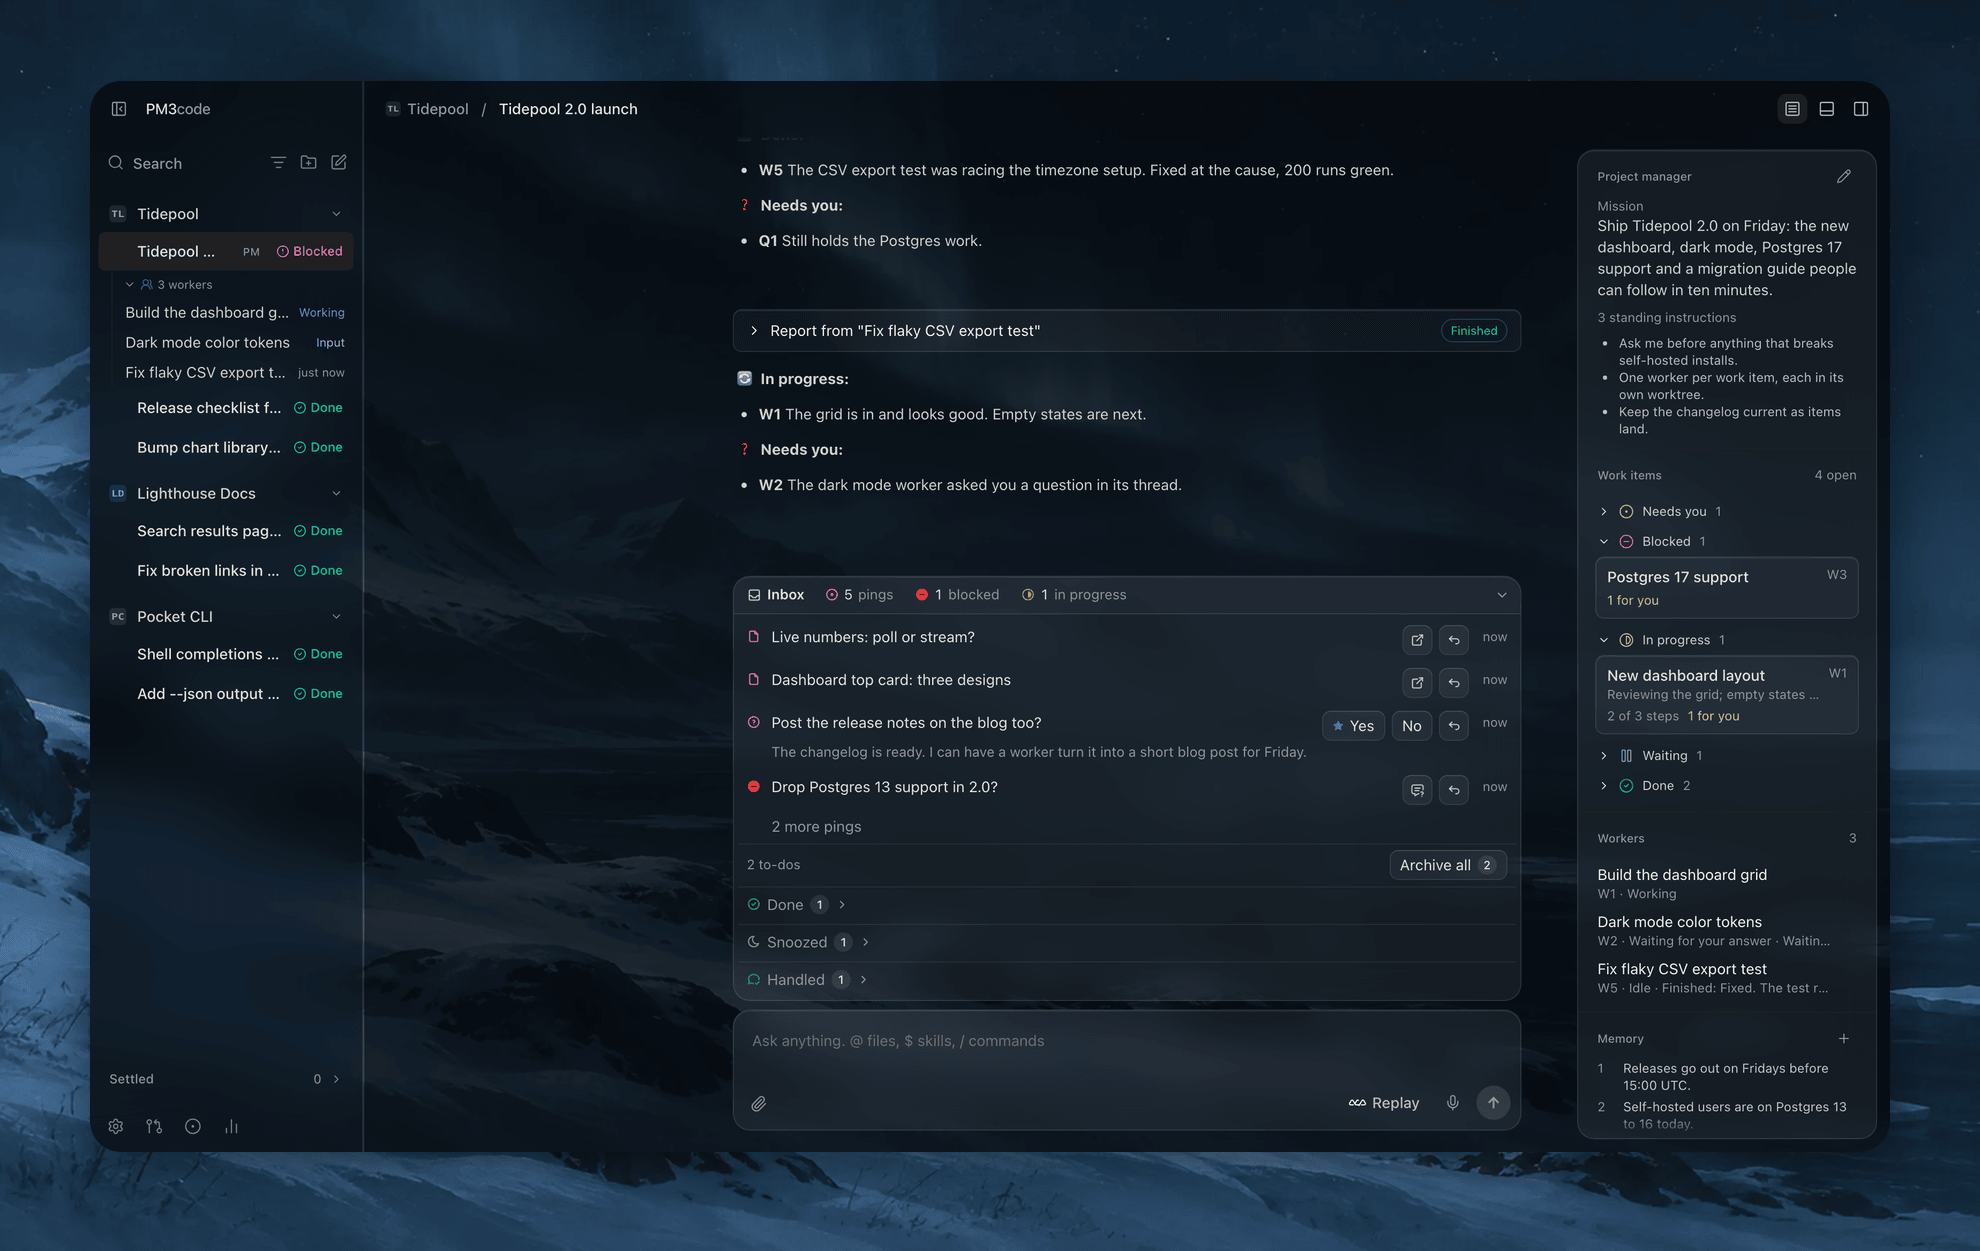
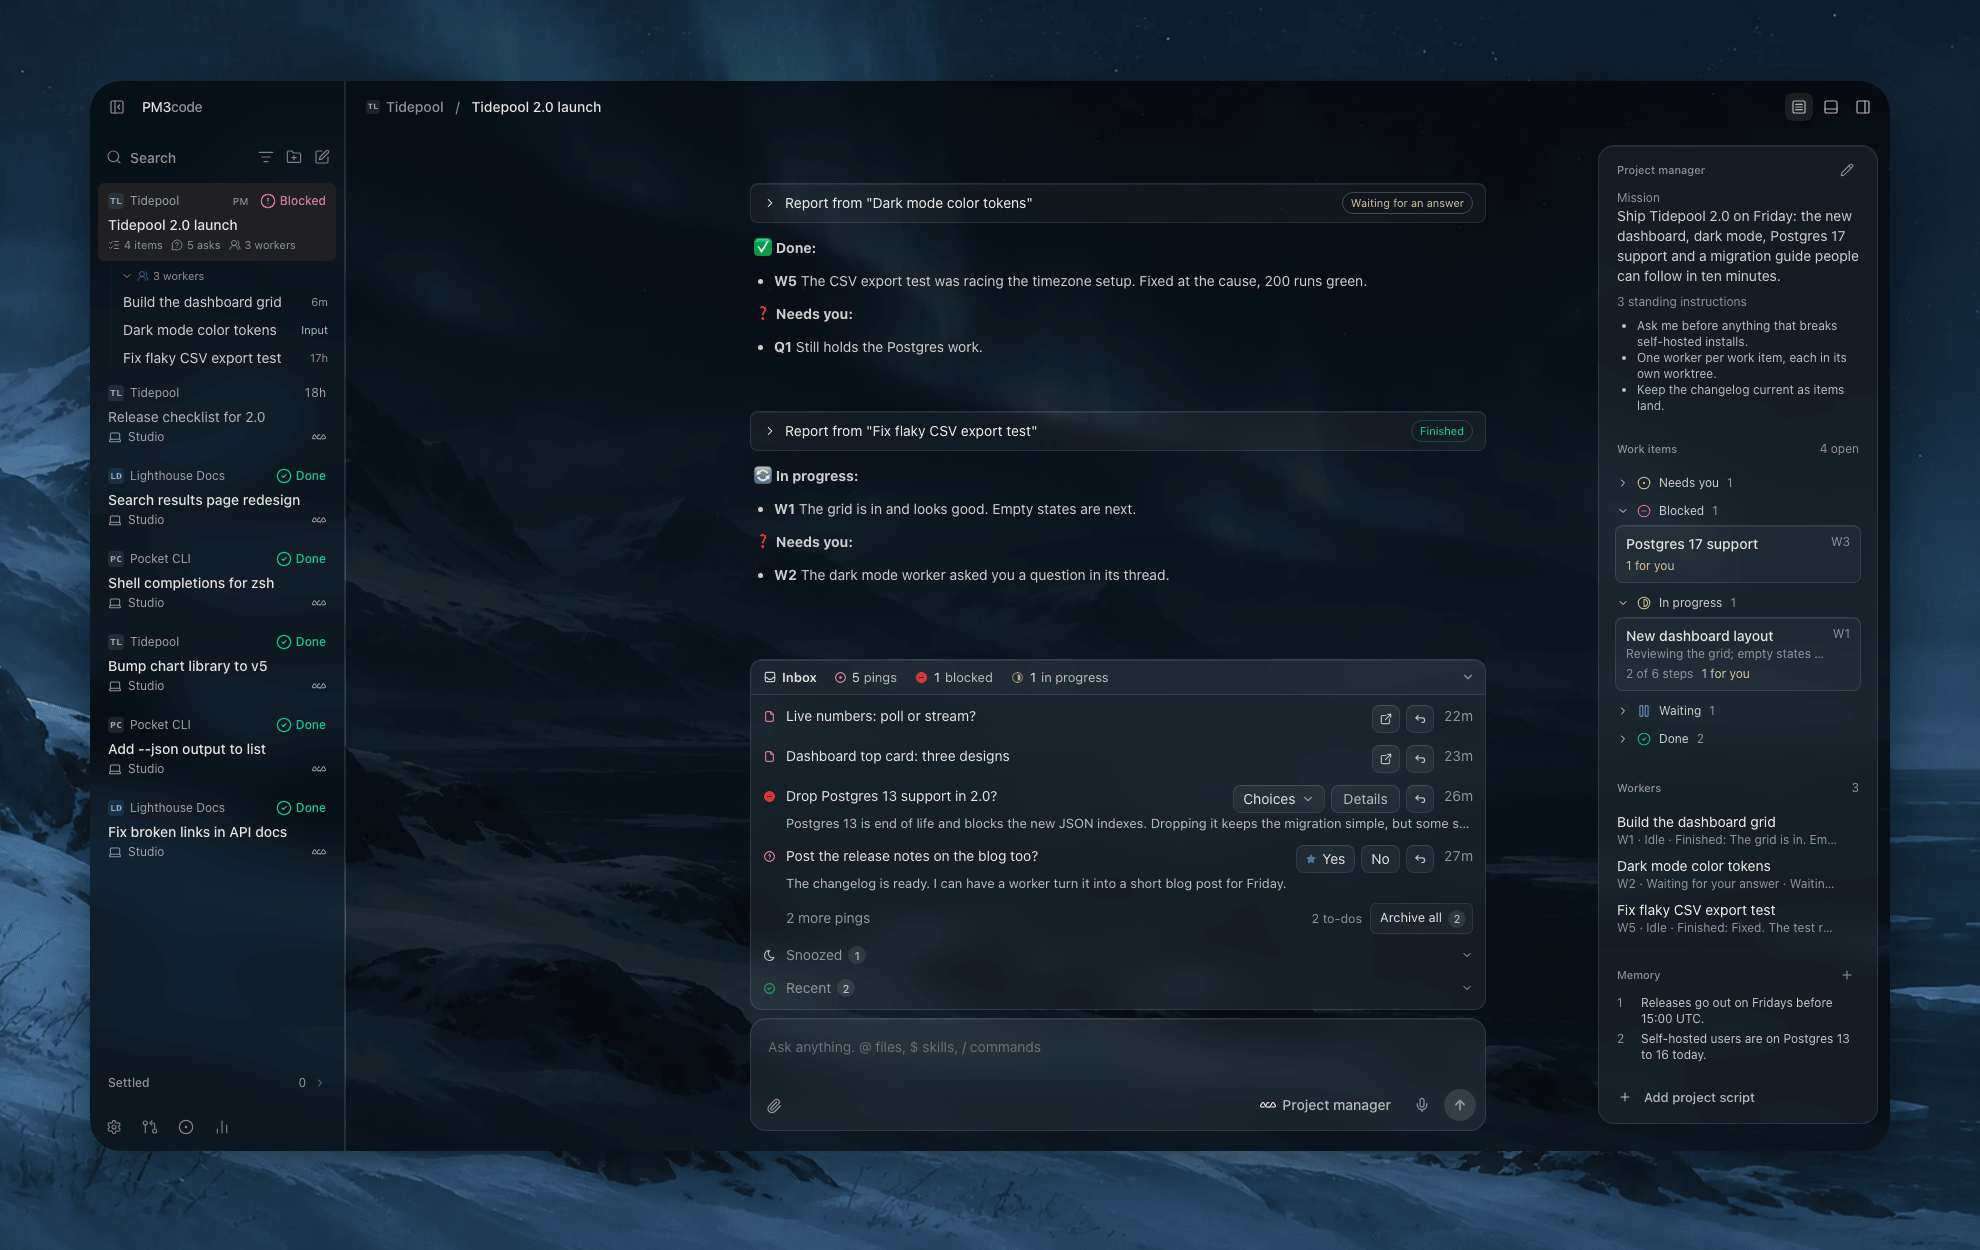
fix(pm): one nudge for a stopped worker, steady Inbox taps on phones, clean README shots
A worker that stopped (e.g. its model was removed) got a carry-on nudge every 10
minutes forever, each failure filing a new report and waking the PM. The watcher
now nudges once; a second stop shows as Not moving until the worker moves again.
On phone-width web, pressing an Inbox button grew the composer and moved the
Inbox 31px, so taps missed; the Inbox now opts out like other composer banners.
README hero and Inbox shots are retaken from a clean demo with the Recent drawer.

Claude Opus 5.5 via Claude Code (Ghostex thread)

diff --git a/apps/server/src/pm/PmService.ts b/apps/server/src/pm/PmService.ts
@@ -121,10 +121,19 @@ function workerStateOf(
   return "idle";
 }
 
-/** Not moving, as Ghostex means it: still quiet a round after the watcher's nudge. */
-const isQuiet = (worker: PmWorkerRow, shell: OrchestrationV2ThreadShell | null) => {
+const OWED_OR_NUDGED = new Set<PmReportKind>(["stopped", "restarted", "idle"]);
+
+/** Not moving, as Ghostex means it: still quiet a round after the nudge, or stopped again after it. */
+const isNotMoving = (
+  worker: PmWorkerRow,
+  shell: OrchestrationV2ThreadShell | null,
+  state: PmWorkerState,
+) => {
+  if (state === "idle")
+    return worker.lastReportAt !== null && worker.watch.stuckReportAt === worker.lastReportAt;
   const quiet = shell === null ? null : quietStreakOf(shell);
   return (
+    state === "running" &&
     quiet !== null &&
     worker.watch.nudgedRunId === quiet.runId &&
     worker.watch.notMovingStreak === quiet.streak
@@ -840,12 +849,10 @@ const make = Effect.gen(function* () {
     const workerStates = yield* Effect.forEach(workers, (worker) =>
       (worker.resolvedAt !== null ? Effect.succeed(null) : shellOf(worker.workerThreadId)).pipe(
         Effect.orElseSucceed(() => null),
-        Effect.map((shell) => ({
-          worker,
-          shell,
-          state: workerStateOf(worker, shell, nowMs),
-          quiet: isQuiet(worker, shell),
-        })),
+        Effect.map((shell) => {
+          const state = workerStateOf(worker, shell, nowMs);
+          return { worker, shell, state, notMoving: isNotMoving(worker, shell, state) };
+        }),
       ),
     );
     const itemsByNo = new Map(items.map((item) => [item.itemNo, item]));
@@ -879,7 +886,7 @@ const make = Effect.gen(function* () {
         onlyThePm:
           shownStatus === "in_progress" &&
           !onIt.some((entry) => entry.state === "running" || entry.state === "limited"),
-        quietWorkers: onIt.filter((entry) => entry.quiet && entry.state === "running"),
+        quietWorkers: onIt.filter((entry) => entry.notMoving),
         steps: steps.filter((step) => step.itemNo === item.itemNo),
         waits: waits
           .filter((wait) => wait.itemNo === item.itemNo)
@@ -1029,8 +1036,8 @@ const make = Effect.gen(function* () {
             : workerStates
                 .filter((entry) => entry.state !== "resolved")
                 .map(
-                  ({ worker, shell: workerShell, state, quiet }) =>
-                    `- "${workerShell?.title ?? worker.workerThreadId}" (thread ${worker.workerThreadId})${worker.itemNo === null ? "" : ` on ${formatItemTag(worker.itemNo)}`}: ${state === "limited" ? "paused at a usage limit, carries on after the reset" : quiet && state === "running" ? "running, quiet after the nudge" : state}${worker.lastReportKind ? `; last report ${worker.lastReportKind} at ${worker.lastReportAt}: ${worker.lastReportLine ?? ""}` : ""}`,
+                  ({ worker, shell: workerShell, state, notMoving }) =>
+                    `- "${workerShell?.title ?? worker.workerThreadId}" (thread ${worker.workerThreadId})${worker.itemNo === null ? "" : ` on ${formatItemTag(worker.itemNo)}`}: ${state === "limited" ? "paused at a usage limit, carries on after the reset" : notMoving && state === "running" ? "running, quiet after the nudge" : notMoving ? "stopped again after the nudge" : state}${worker.lastReportKind ? `; last report ${worker.lastReportKind} at ${worker.lastReportAt}: ${worker.lastReportLine ?? ""}` : ""}`,
                 )),
         ];
         return lines.join("\n");
@@ -1559,7 +1566,7 @@ const make = Effect.gen(function* () {
         ...askRow,
         answerMessageId: answerMessageId === null ? null : MessageId.make(answerMessageId),
       })),
-      workers: workerStates.map(({ worker, shell, state, quiet }) => ({
+      workers: workerStates.map(({ worker, shell, state, notMoving }) => ({
         threadId: ThreadId.make(worker.workerThreadId),
         itemNo: worker.itemNo,
         // `limited` stays off the wire so older fork clients still decode; the reset time says it.
@@ -1568,7 +1575,7 @@ const make = Effect.gen(function* () {
           state === "limited" && shell !== null
             ? DateTime.formatIso(DateTime.makeUnsafe(usageLimitResetOf(shell)!))
             : null,
-        notMoving: quiet && state === "running",
+        notMoving,
         linkedAt: worker.linkedAt,
         resolvedAt: worker.resolvedAt,
         lastReportKind: worker.lastReportKind,
@@ -1639,7 +1646,7 @@ const make = Effect.gen(function* () {
         rowState: blocked ? "blocked" : needsYou ? "needs_you" : running > 0 ? "running" : "idle",
         workerThreadIds: live.map((entry) => ThreadId.make(entry.worker.workerThreadId)),
         notMovingWorkerThreadIds: live
-          .filter((entry) => entry.quiet && entry.state === "running")
+          .filter((entry) => entry.notMoving)
           .map((entry) => ThreadId.make(entry.worker.workerThreadId)),
       });
     }
@@ -1738,6 +1745,14 @@ const make = Effect.gen(function* () {
       last_report_at: at,
       last_report_line: report.line,
     });
+    // It moved on (finished, waiting, running): a later stop earns a fresh carry-on nudge.
+    if (!OWED_OR_NUDGED.has(report.kind)) {
+      const worker = yield* store.getWorker(report.workerThreadId);
+      if (worker !== null && worker.watch.idleNudgedFor !== undefined) {
+        const { idleNudgedFor: _nudged, stuckReportAt: _stuck, ...watch } = worker.watch;
+        yield* store.updateWatch(report.workerThreadId, watch);
+      }
+    }
     yield* changed(report.pmThreadId);
   });
 

diff --git a/apps/server/src/pm/PmReportWatcher.test.ts b/apps/server/src/pm/PmReportWatcher.test.ts
@@ -326,6 +326,33 @@ describe("PmReportWatcher", () => {
           messagesTo(world, worker).map((message) => message.text),
           [IDLE_NUDGE],
         );
+        // The nudge's run fails the same way (a removed model): no second nudge, one chip.
+        const service = yield* PmService;
+        const notMoving = Effect.map(service.detail(pm), (detail) => detail!.workers[0]!.notMoving);
+        yield* watcher.handle(
+          runUpdated(runOf(worker, "run-2", "failed", { completedAt: now }), yield* DateTime.now),
+        );
+        assert.lengthOf(reportsTo(world, pm), 3);
+        yield* watcher.sweep;
+        assert.isTrue(yield* notMoving);
+        yield* TestClock.adjust("30 minutes");
+        yield* watcher.sweep;
+        yield* watcher.sweep;
+        assert.lengthOf(messagesTo(world, worker), 1);
+        assert.lengthOf(reportsTo(world, pm), 3);
+        expect((yield* service.itemList(pm, true)).result).toContain(
+          'A worker on it is not moving, even after PM3code nudged it:\n    W1 Pairing ("Fix pairing")',
+        );
+        // It finishes after a manual fix: the chip clears, and a later stop gets a nudge again.
+        yield* watcher.handle(yield* finishWorker(world, worker, "run-3", "Done."));
+        assert.isFalse(yield* notMoving);
+        world.shells.set(worker, { ...world.shells.get(worker)!, status: "failed" });
+        yield* watcher.handle(
+          runUpdated(runOf(worker, "run-4", "failed", { completedAt: now }), yield* DateTime.now),
+        );
+        yield* TestClock.adjust("10 minutes");
+        yield* watcher.sweep;
+        assert.lengthOf(messagesTo(world, worker), 2);
       }).pipe(Effect.provide(layerPmWithWatcher(world).pipe(Layer.provideMerge(harness))));
     },
   );

diff --git a/apps/server/src/pm/PmReportWatcher.ts b/apps/server/src/pm/PmReportWatcher.ts
@@ -318,6 +318,20 @@ const make = Effect.gen(function* () {
       }
       const owed = worker.lastReportKind === "stopped" || worker.lastReportKind === "restarted";
       if (!owed || worker.lastReportAt === null) continue;
+      if (watch.stuckReportAt === worker.lastReportAt) continue;
+      // It stopped again after the carry-on nudge (a removed model, a broken setup): another
+      // nudge only repeats the failure. A usage limit is different: it carries on after the reset.
+      if (
+        watch.idleNudgedFor !== undefined &&
+        watch.idleNudgedFor !== worker.lastReportAt &&
+        usageLimitResetOf(shell) === null
+      ) {
+        yield* store
+          .updateWatch(worker.workerThreadId, { ...watch, stuckReportAt: worker.lastReportAt })
+          .pipe(Effect.ignore);
+        yield* pm.changed(worker.pmThreadId);
+        continue;
+      }
       // A usage limit is waited out: the nudge comes only once its window has reset.
       const idleSince = Math.max(isoMillis(worker.lastReportAt), usageLimitResetOf(shell) ?? 0);
       if (now - idleSince < IDLE_AFTER_MS) continue;

diff --git a/apps/web/src/pm/notMovingChip.tsx b/apps/web/src/pm/notMovingChip.tsx
@@ -2,7 +2,7 @@ import { useGT } from "gt-react";
 
 import { Tooltip, TooltipPopup, TooltipTrigger } from "../components/ui/tooltip";
 
-/** Ghostex's red "Not moving" chip: still quiet a full round after PM3code nudged it. */
+/** Ghostex's red "Not moving" chip: still quiet a round after PM3code nudged it, or stopped again after it. */
 export function PmNotMovingChip() {
   const gt = useGT();
   return (

diff --git a/apps/server/src/pm/PmStore.ts b/apps/server/src/pm/PmStore.ts
@@ -32,6 +32,8 @@ export interface PmWorkerWatch {
   /** The quiet streak it is on when it was still quiet a round after the nudge: "Not moving". */
   readonly notMovingStreak?: string;
   readonly idleNudgedFor?: string;
+  /** The report it stopped with again after the carry-on nudge: "Not moving", never nudged again. */
+  readonly stuckReportAt?: string;
 }
 
 export interface PmWorkerRow {

diff --git a/apps/web/src/pm/dock.tsx b/apps/web/src/pm/dock.tsx
@@ -186,6 +186,8 @@ function InboxSurface(props: {
     <section
       data-pm-inbox={key}
       data-pm-inbox-rows={inbox.rows.length > 0 ? inbox.rows.length : undefined}
+      // Focus here must not expand the phone composer: it would shift the Inbox mid-tap.
+      data-chat-composer-collapsed-controls="true"
       aria-label={gt("Inbox")}
       tabIndex={-1}
       onKeyDown={onKeyDown}

diff --git a/apps/mobile/src/pm/notMovingChip.tsx b/apps/mobile/src/pm/notMovingChip.tsx
@@ -3,7 +3,7 @@ import { View } from "react-native";
 
 import { AppText as Text } from "../components/ui/AppText";
 
-/** Ghostex's red "Not moving" chip: still quiet a full round after PM3code nudged it. */
+/** Ghostex's red "Not moving" chip: still quiet a round after PM3code nudged it, or stopped again after it. */
 export function PmNotMovingChip() {
   const gt = useGT();
   return (

diff --git a/README.md b/README.md
@@ -35,10 +35,10 @@ Once you run more than a couple of agent threads, you become the dispatcher. You
 
 **Workers that report back.** When a worker finishes, needs an answer, goes quiet for 8 minutes, stops mid-turn, or restarts with the server, its PM gets a report and wakes up. Each report is delivered once, even across restarts.
 
-**An Inbox above the chat box.** The PM's questions (Q1, Q2, ...), its Live pages and its blocked work sit above the chat box, with counts at the top. Pick an answer in one click (the PM's pick has a star), snooze a row, or archive finished to-dos all at once. The Done, Snoozed and Handled drawers keep what the PM finished, what you put off, and what you already answered.
+**An Inbox above the chat box.** The PM's questions (Q1, Q2, ...), its Live pages and its blocked work sit above the chat box, with counts at the top. Pick an answer in one click (the PM's pick has a star), snooze a row, or archive finished to-dos all at once. The Snoozed drawer keeps what you put off, and the Recent drawer below it keeps what the PM finished and what you already answered.
 
 <p align="center">
-  <img src="./docs/pm/screenshots/inbox.png" width="80%" alt="The Inbox above the chat box: counts, two Live pages, two questions with one-click answers, Archive all, and the Done, Snoozed and Handled drawers" />
+  <img src="./docs/pm/screenshots/inbox.png" width="80%" alt="The Inbox above the chat box: counts, two Live pages, two questions with one-click answers, Archive all, and the Snoozed and Recent drawers" />
 </p>
 
 **Live pages.** When a question needs more than a button, the PM publishes a page that opens in a pop-up window over the chat. Your choices go straight back to the PM.
